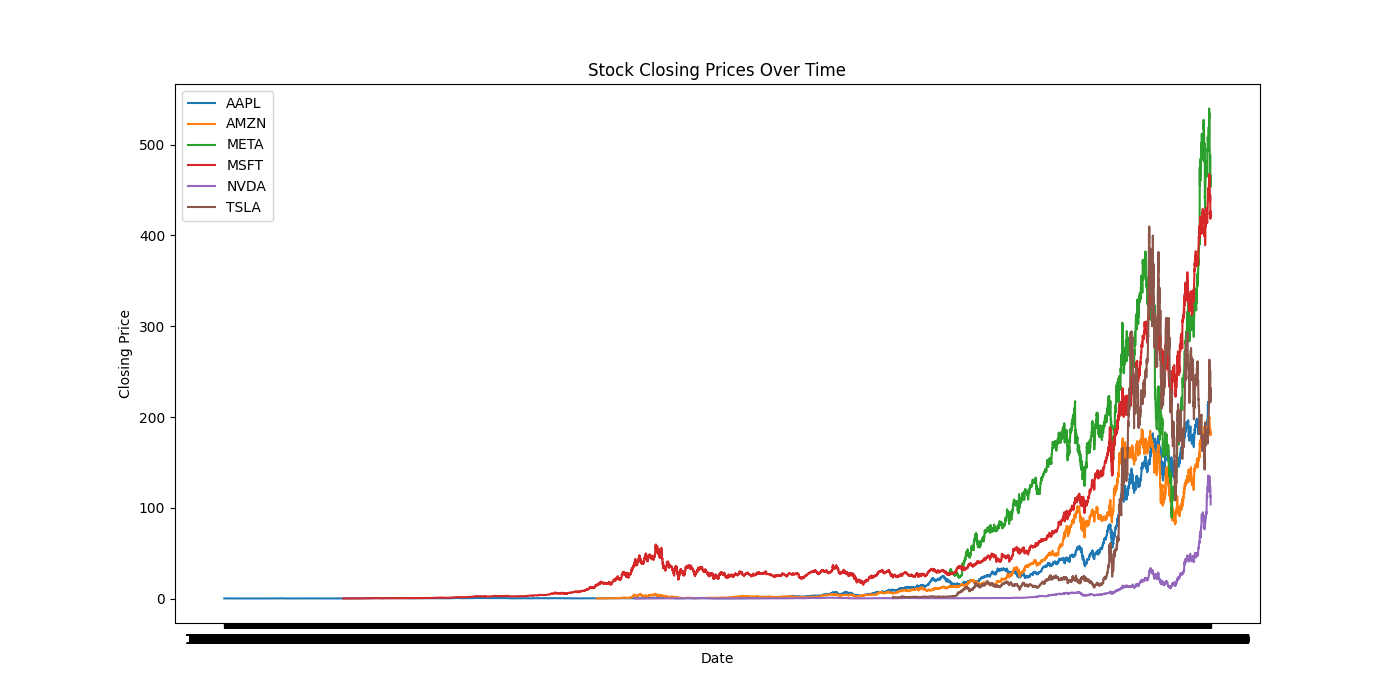
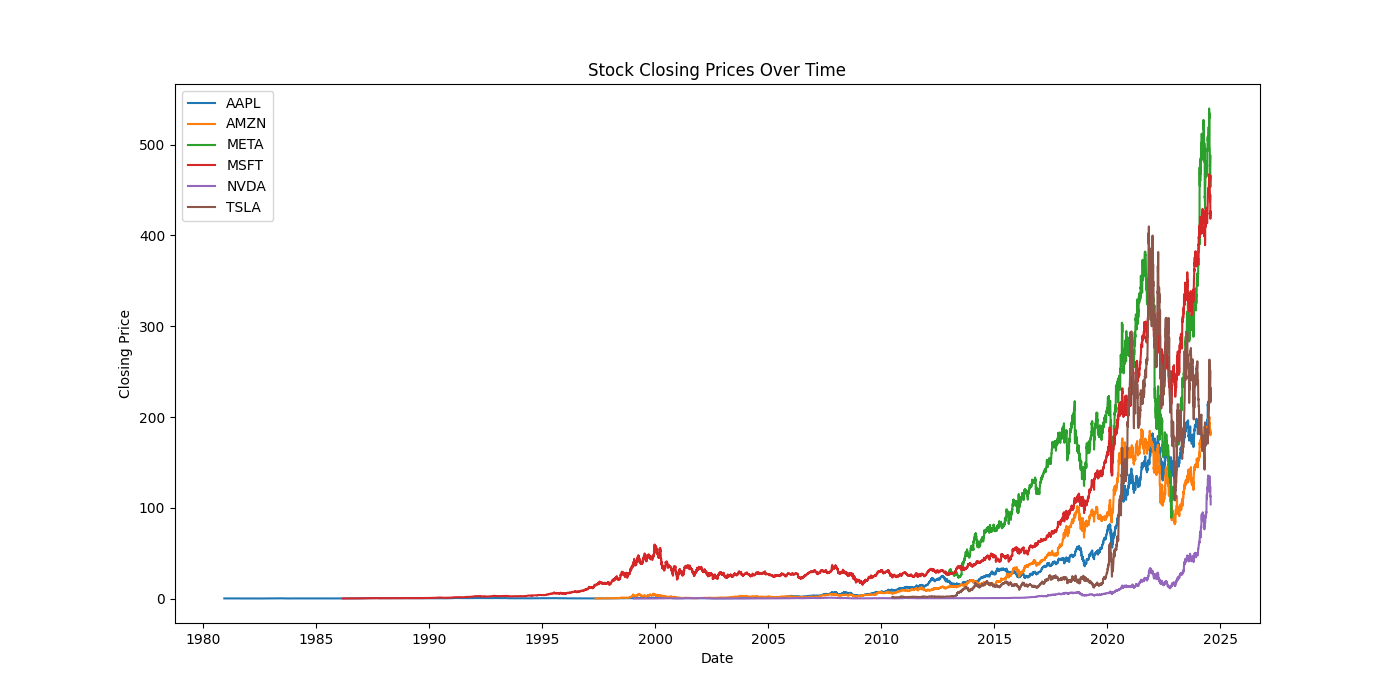
task 1 finshed

Changed region(s): [[0.1229, 0.87, 0.8907, 0.93], [0.645, 0.39, 0.86, 0.84], [0.43, 0.78, 0.5221, 0.84]]

diff --git a/scripts/app.py b/scripts/app.py
@@ -3,11 +3,14 @@ import matplotlib.pyplot as plt
 import seaborn as sns
 import os
 import streamlit as st
+from wordcloud import WordCloud
+from sklearn.feature_extraction.text import CountVectorizer
+from textblob import TextBlob
 
 # Display title and description
 st.title('Financial News Sentiment Analysis and Stock Data')
 st.write("""
-This web app shows sentiment analysis of financial news and stock price trends.
+This web app analyzes financial news and stock price trends using sentiment analysis and exploratory data analysis.
 """)
 
 # Load news data
@@ -16,7 +19,11 @@ st.write(f"News Data Path: {news_data_path}")
 news_df = pd.read_csv(news_data_path)
 
 # Load stock data
-stock_files = ['AAPL_historical_data.csv', 'AMZN_historical_data.csv', 'META_historical_data.csv', 'MSFT_historical_data.csv', 'NVDA_historical_data.csv', 'TSLA_historical_data.csv']
+stock_files = [
+    'AAPL_historical_data.csv', 'AMZN_historical_data.csv',
+    'META_historical_data.csv', 'MSFT_historical_data.csv',
+    'NVDA_historical_data.csv', 'TSLA_historical_data.csv'
+]
 stock_df_list = []
 for file in stock_files:
     df = pd.read_csv(os.path.join('./data/yfinance_data', file))
@@ -37,22 +44,79 @@ st.write(news_df.head())
 st.subheader('Stock Data Head')
 st.write(stock_df.head())
 
-# Check if 'sentiment' column exists in the news data
-if 'sentiment' in news_df.columns:
-    st.subheader('Sentiment Distribution')
+# Sentiment Analysis
+st.subheader('Sentiment Analysis of Headlines')
+if 'headline' in news_df.columns:
+    def calculate_sentiment(text):
+        analysis = TextBlob(text)
+        return analysis.sentiment.polarity  # Polarity ranges from -1 (negative) to 1 (positive)
+
+    news_df['sentiment'] = news_df['headline'].apply(calculate_sentiment)
+    st.write("Sentiment scores added to news data.")
+
+    # Sentiment Distribution
     fig, ax = plt.subplots(figsize=(10, 6))
     sns.histplot(news_df['sentiment'], kde=True, bins=20, color='skyblue', ax=ax)
     ax.set_title('Sentiment Score Distribution')
     ax.set_xlabel('Sentiment Score')
     ax.set_ylabel('Frequency')
-    st.pyplot(fig)  # Ensure fig is passed to st.pyplot
-else:
-    st.write("Sentiment column not found in the news data.")
+    st.pyplot(fig)
 
-# Convert 'Date' column in stock data to datetime
-stock_df['Date'] = pd.to_datetime(stock_df['Date'])
+# Descriptive Statistics
+st.subheader('Descriptive Statistics')
+if 'headline' in news_df.columns:
+    news_df['headline_length'] = news_df['headline'].str.len()
+    st.write(news_df[['headline', 'headline_length']].describe())
+    st.write("Average Headline Length:", news_df['headline_length'].mean())
+
+    # Count articles per publisher
+    publisher_counts = news_df['publisher'].value_counts()
+    st.write("Top Publishers:")
+    st.bar_chart(publisher_counts.head(10))
+
+    # Analyze publication dates
+    if 'date' in news_df.columns:
+        try:
+            # Attempt to parse the date with a flexible approach
+            news_df['date'] = pd.to_datetime(news_df['date'], format='mixed', utc=True, errors='coerce')
+            st.write("Date parsing successful. Example dates:")
+            st.write(news_df['date'].head())
+        except Exception as e:
+            st.error(f"Error parsing dates: {e}")
+
+        # Handle missing or invalid dates
+        if news_df['date'].isnull().any():
+            st.warning("Some dates could not be parsed. Replacing invalid dates with NaT.")
+            news_df['date'] = pd.to_datetime(news_df['date'], errors='coerce')
+
+        news_df['day_of_week'] = news_df['date'].dt.day_name()
+        date_counts = news_df['date'].dt.date.value_counts().sort_index()
+        st.line_chart(date_counts)
+
+# Word Cloud for Headlines
+st.subheader('Common Words in Headlines')
+headline_text = " ".join(news_df['headline'].dropna())
+wordcloud = WordCloud(width=800, height=400, background_color='white').generate(headline_text)
+fig, ax = plt.subplots(figsize=(10, 6))
+ax.imshow(wordcloud, interpolation='bilinear')
+ax.axis('off')
+st.pyplot(fig)
+
+# Time Series Analysis
+st.subheader('Publication Frequency Over Time')
+if 'date' in news_df.columns:
+    st.line_chart(news_df['date'].dt.date.value_counts().sort_index())
+
+# Topic Modeling (Keywords Extraction)
+st.subheader('Topic Modeling')
+vectorizer = CountVectorizer(stop_words='english', max_features=20)
+X = vectorizer.fit_transform(news_df['headline'].dropna())
+keywords = vectorizer.get_feature_names_out()
+st.write("Top Keywords in Headlines:", keywords)
 
 # Plot stock closing price trends
+st.subheader('Stock Price Trends')
+stock_df['Date'] = pd.to_datetime(stock_df['Date'])
 fig, ax = plt.subplots(figsize=(14, 7))
 for stock in stock_df['stock_symbol'].unique():
     stock_subset = stock_df[stock_df['stock_symbol'] == stock]
@@ -62,6 +126,12 @@ ax.set_title('Stock Closing Prices Over Time')
 ax.set_xlabel('Date')
 ax.set_ylabel('Closing Price')
 ax.legend()
+st.pyplot(fig)
 
-# Display the stock price plot in Streamlit
-st.pyplot(fig)  # Ensure fig is passed to st.pyplot
+# Analyze publisher activity
+st.subheader('Publisher Analysis')
+if 'publisher' in news_df.columns:
+    news_df['email_domain'] = news_df['publisher'].str.extract(r'@([\w\.-]+)')
+    domain_counts = news_df['email_domain'].value_counts()
+    st.write("Top Email Domains Contributing to News:")
+    st.bar_chart(domain_counts.head(10))

diff --git a/scripts/task_1_eda.py b/scripts/task_1_eda.py
@@ -1,25 +1,30 @@
-# Task 1: Exploratory Data Analysis (EDA)
 import pandas as pd
 import matplotlib.pyplot as plt
 import seaborn as sns
 import os
+from wordcloud import WordCloud
+from sklearn.feature_extraction.text import CountVectorizer
+from textblob import TextBlob
 
-# Load data
+# Create directories for saving results
+os.makedirs('./results', exist_ok=True)
+
 # Print current working directory
 print("Current Working Directory:", os.getcwd())
 
 # Load data
 news_data_path = os.path.abspath('./data/news_data.csv')
-
 news_df = pd.read_csv(news_data_path)
 
-
 # Load stock data from individual files
-stock_files = ['AAPL_historical_data.csv', 'AMZN_historical_data.csv', 'META_historical_data.csv', 'MSFT_historical_data.csv', 'NVDA_historical_data.csv', 'TSLA_historical_data.csv']
+stock_files = [
+    'AAPL_historical_data.csv', 'AMZN_historical_data.csv',
+    'META_historical_data.csv', 'MSFT_historical_data.csv',
+    'NVDA_historical_data.csv', 'TSLA_historical_data.csv'
+]
 stock_df_list = []
 for file in stock_files:
     df = pd.read_csv(os.path.join('./data/yfinance_data', file))
-
     df['stock_symbol'] = file.split('_')[0].upper()  # Extract stock symbol from file name
     stock_df_list.append(df)
 stock_df = pd.concat(stock_df_list, ignore_index=True)
@@ -36,18 +41,51 @@ print(news_df.head())
 print("\nStock DataFrame Head:")
 print(stock_df.head())
 
+# Sentiment Analysis
+def calculate_sentiment(text):
+    analysis = TextBlob(text)
+    return analysis.sentiment.polarity  # Polarity ranges from -1 (negative) to 1 (positive)
+
+if 'headline' in news_df.columns:
+    news_df['sentiment'] = news_df['headline'].apply(calculate_sentiment)
+    print("Sentiment scores added to news data.")
+
 # Plot the distribution of sentiment scores
 if 'sentiment' in news_df.columns:
     plt.figure(figsize=(10, 6))
-    sns.histplot(news_df['sentiment'], kde=True, bins=20)
+    sns.histplot(news_df['sentiment'], kde=True, bins=20, color='skyblue')
     plt.title('Sentiment Score Distribution')
     plt.xlabel('Sentiment Score')
     plt.ylabel('Frequency')
     plt.savefig('./results/news_sentiment_distribution.png')
     plt.show()
 
+# Descriptive Statistics
+if 'headline' in news_df.columns:
+    news_df['headline_length'] = news_df['headline'].str.len()
+    print("Descriptive Statistics for Headline Length:")
+    print(news_df['headline_length'].describe())
+
+    # Word Cloud for Headlines
+    headline_text = " ".join(news_df['headline'].dropna())
+    wordcloud = WordCloud(width=800, height=400, background_color='white').generate(headline_text)
+    plt.figure(figsize=(10, 6))
+    plt.imshow(wordcloud, interpolation='bilinear')
+    plt.axis('off')
+    plt.title('Word Cloud of News Headlines')
+    plt.savefig('./results/news_headline_wordcloud.png')
+    plt.show()
+
+# Topic Modeling (Keywords Extraction)
+vectorizer = CountVectorizer(stop_words='english', max_features=20)
+if 'headline' in news_df.columns:
+    X = vectorizer.fit_transform(news_df['headline'].dropna())
+    keywords = vectorizer.get_feature_names_out()
+    print("Top Keywords in Headlines:", keywords)
+
 # Plot stock closing price trends
 plt.figure(figsize=(14, 7))
+stock_df['Date'] = pd.to_datetime(stock_df['Date'])
 for stock in stock_df['stock_symbol'].unique():
     stock_subset = stock_df[stock_df['stock_symbol'] == stock]
     plt.plot(stock_subset['Date'], stock_subset['Close'], label=stock)
@@ -58,3 +96,15 @@ plt.ylabel('Closing Price')
 plt.legend()
 plt.savefig('./results/stock_prices_over_time.png')
 plt.show()
+
+# Publication Frequency Over Time
+if 'date' in news_df.columns:
+    news_df['date'] = pd.to_datetime(news_df['date'], utc=True)
+    publication_counts = news_df['date'].dt.date.value_counts().sort_index()
+    plt.figure(figsize=(14, 7))
+    plt.plot(publication_counts.index, publication_counts.values, marker='o')
+    plt.title('Publication Frequency Over Time')
+    plt.xlabel('Date')
+    plt.ylabel('Number of Articles')
+    plt.savefig('./results/publication_frequency.png')
+    plt.show()
